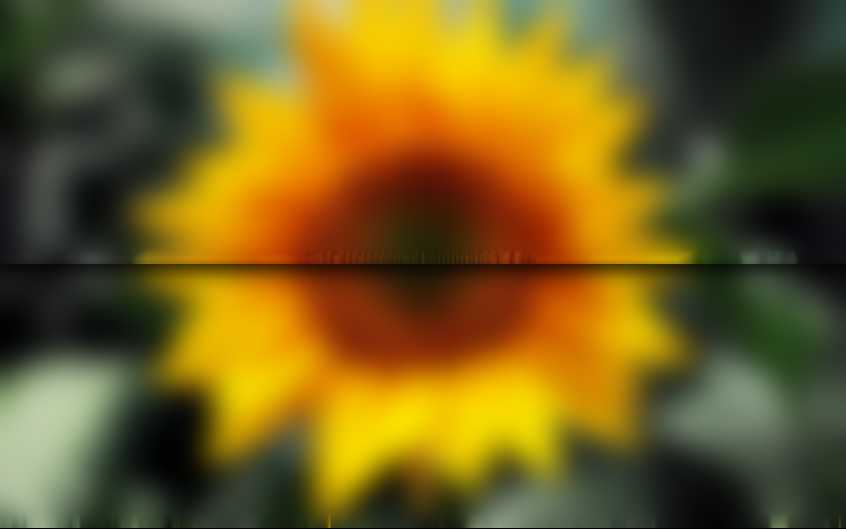
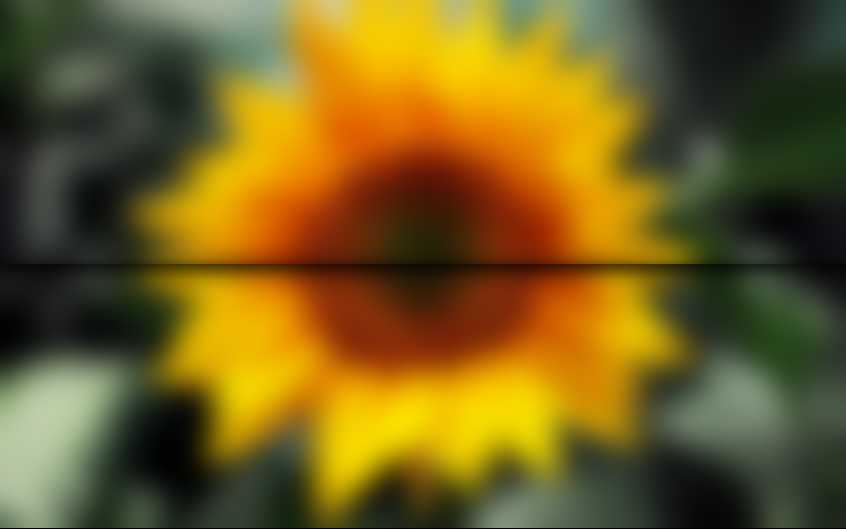
fix some of the overlaping issue

diff --git a/lab4/camantillad_dsramirezc_dcalbarracinv/blur-effect1.c b/lab4/camantillad_dsramirezc_dcalbarracinv/blur-effect1.c
@@ -51,7 +51,7 @@ void boxesForGauss(int sigma, int n, double *bxs) {
 }
 
 void boxBlurH(int *scl, int *tcl, int w, int h, int r, int start, int end) {
-    for(int i=start; i<end; i++)
+    for(int i=start; i<min(h, end); i++)
         for(int j=0; j<w; j++)  {
             int val = 0;
             for(int ix=j-r; ix<j+r+1; ix++) {
@@ -63,7 +63,7 @@ void boxBlurH(int *scl, int *tcl, int w, int h, int r, int start, int end) {
 }
 
 void boxBlurT(int *scl, int *tcl, int w, int h, int r, int start, int end) {
-    for(int i=start; i<end; i++)
+    for(int i=start; i<min(h, end); i++)
         for(int j=0; j<w; j++) {
             int val = 0;
             for(int iy=i-r; iy<i+r+1; iy++) {
@@ -114,7 +114,7 @@ void parallelize(int *scl, int *tcl, int w, int h, int r, int processId) {
 		params.h = h;
 		params.r = r;
 		params.start = GLOBAL_ID * dh;
-		params.end = (GLOBAL_ID + 1) * dh;
+		params.end = ((GLOBAL_ID + 1) * dh) + 10;
 		params.id = ID;
 		params_arr[ID] = params;
 		gaussBlur(&params_arr[ID]);
@@ -149,7 +149,7 @@ int main(int argc, char *argv[]){
 	printf("processStart: %d processEnd %d\n", processStart, processEnd);
 	for (int i = 0; i < height; i++) {
 		for (int j = 0; j < width; j++) {
-			if ( processStart <= i && i < processEnd+10) {
+			if (processStart <= i && i < processEnd+10) {
 				*(r_ch+(i*width)+j) = (int)*(img+offset);
 				*(g_ch+(i*width)+j) = (int)*(img+offset+1);
 				*(b_ch+(i*width)+j) = (int)*(img+offset+2);
@@ -176,7 +176,7 @@ int main(int argc, char *argv[]){
 	offset = 0;
 	for (int i = 0; i < height; i++) {
 		for (int j = 0; j < width; j++) {
-			if ( processStart <= i && i < processEnd) {
+			if (processStart <= i && i < processEnd) {
 				int_img[offset] = *(r_target_ch + (i*width)+j);
 				int_img[offset+1] = *(g_target_ch + (i*width)+j);
 				int_img[offset+2] = *(b_target_ch + (i*width)+j);
